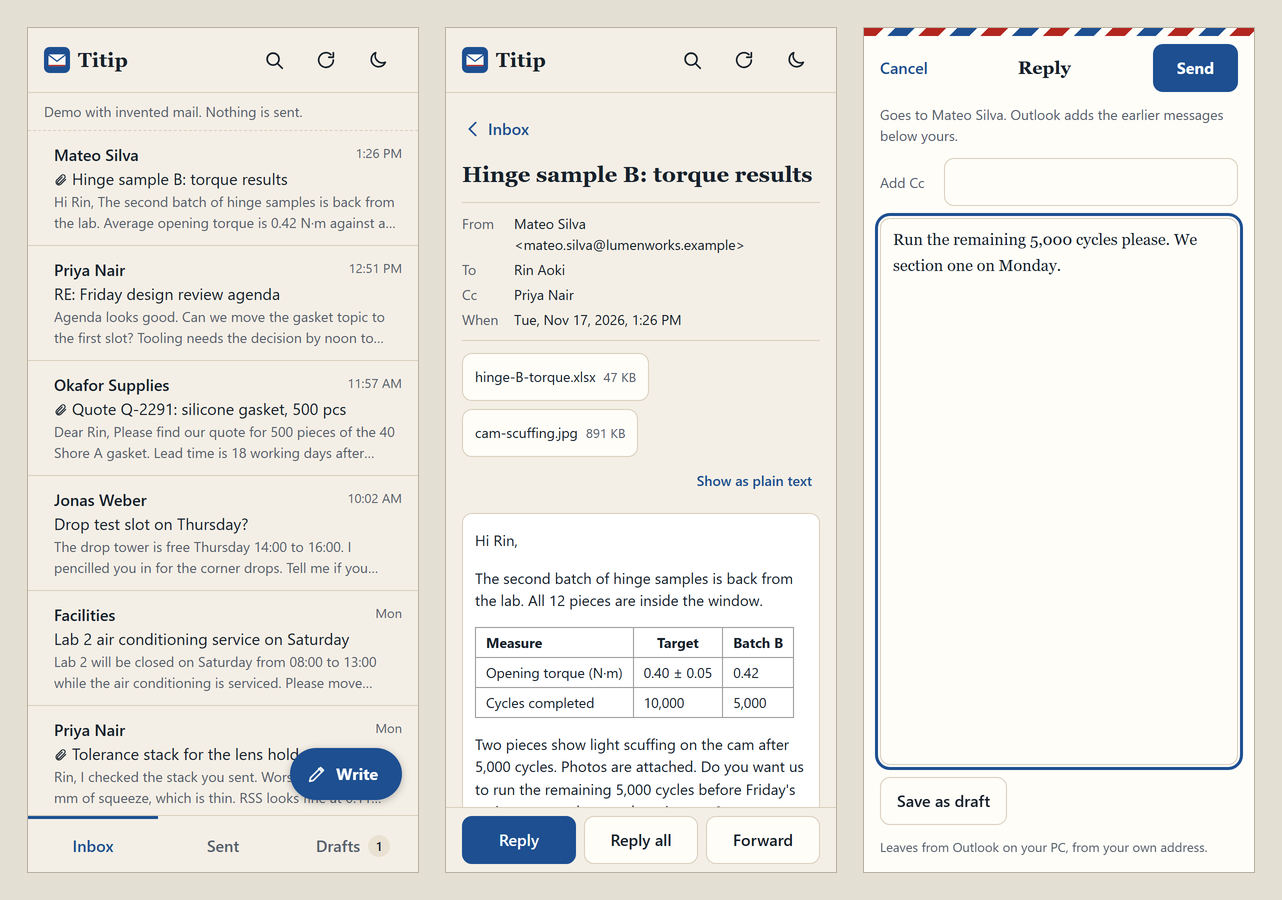
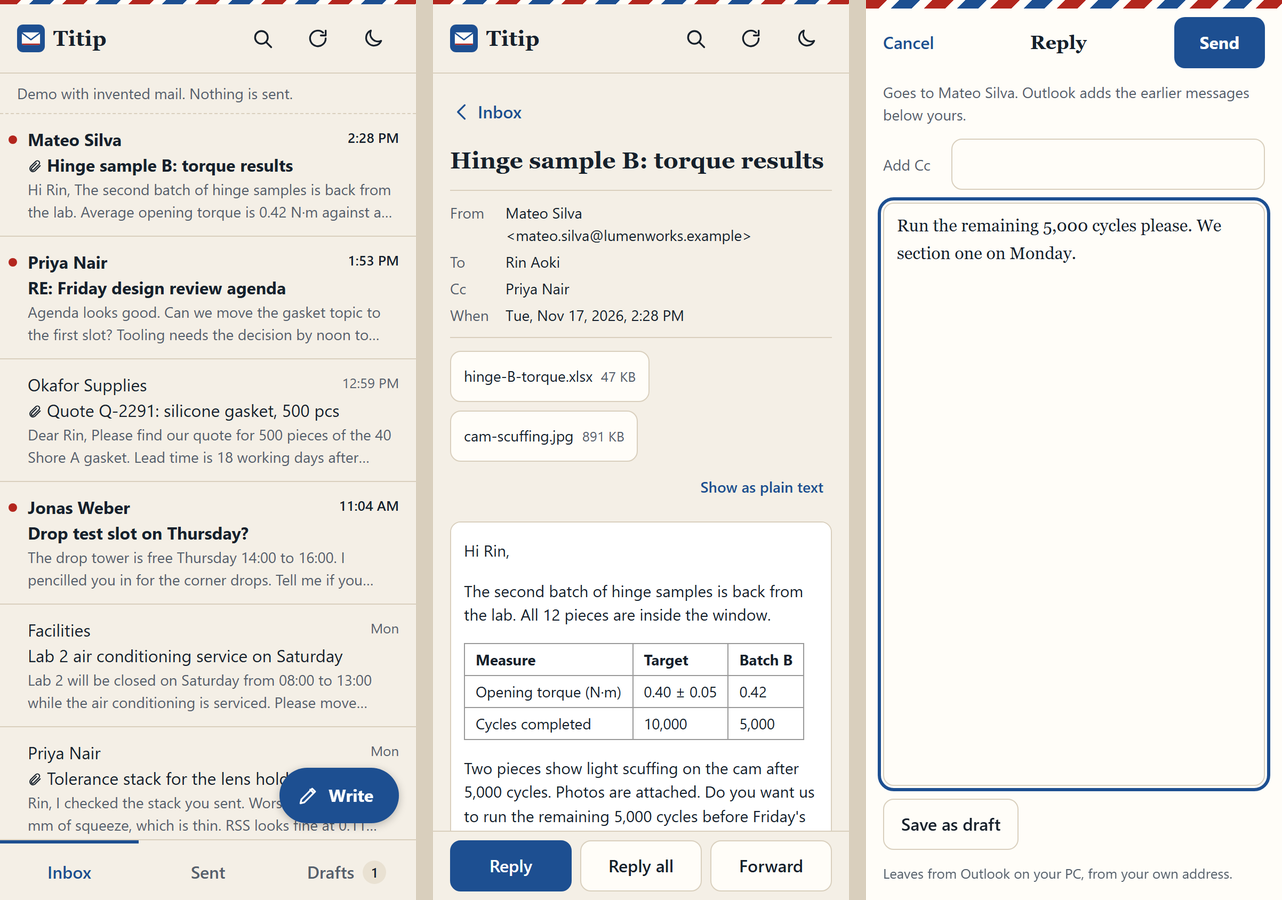
Refine log, README limits, fresh phone screenshot
Hone run: v0 7.75 -> 8.75 (council-judged, 3 judges). Rounds 2 and 3 not kept;
their candidate is on try/day-groups-write-in-bar.

Changed region(s): [[0.0, 0.0, 1.0, 1.0]]

diff --git a/scripts/e2e.py b/scripts/e2e.py
@@ -151,6 +151,8 @@ def main() -> None:
             page.fill("#bodyInput", "Thursday works.")
             page.click("#send")
             check(page.inner_text("#composeError") == "Add at least one recipient.", "sending without a recipient is stopped")
+            page.fill("#subjectInput", "Drop test")
+            page.screenshot(path=SHOTS / "phone-new.png")
             page.fill("#toInput", "jonas.weber@lumenworks.example")
             page.fill("#subjectInput", "Drop test")
             page.click("#saveDraft")

diff --git a/refine_log.md b/refine_log.md
@@ -1,0 +1,120 @@
+# Titip refine log
+
+Run of 2026-11-17. One artifact: the phone app, its desktop two-pane view and the page on the PC.
+Scores are council-judged by three model judges (A, B, C below) reading screenshots of the demo
+mailbox. They are opinions of models, not of users. Nobody has judged it on a real phone yet.
+
+## Run queue
+
+- [x] Freeze the rubric before the first edit
+- [x] Baseline v0 (commit `15ad79e`)
+- [x] Round 1: kept (commit `cb86588`)
+- [x] Round 2: not kept
+- [x] Round 3: not kept, loop stopped (2 rounds in a row without a kept gain)
+- [x] Candidate from rounds 2 and 3 saved on branch `try/day-groups-write-in-bar`
+- [ ] Open: try it on a real phone on the same network, and send one real message
+
+## Assumptions
+
+- Assumed: one design direction (a letter on your desk), no four-direction bracket. One job, one user.
+- Assumed: opening a message on the phone does not mark it read in Outlook. The phone only clears its own dot.
+- Assumed: no automatic signature. An earlier build read the signature from a hidden Outlook editor;
+  that was removed because it could keep Outlook busy.
+- Assumed: the repository is public, like Cairn, and holds invented mail only.
+- Assumed: the frozen keep rule decides, also when the side-by-side vote and the score disagree (round 3).
+
+## Rubric (frozen before any edit)
+
+Artifact: the Titip phone app, its desktop two-pane view and the page on the PC, judged from screenshots
+of the demo mailbox (invented mail). Audience: one engineer reading and answering work mail on a phone.
+
+## Hard gates (code-checked, the judges never decide these)
+
+| Gate | Check |
+| --- | --- |
+| G1 | `python -m unittest discover -s tests -t .` passes |
+| G2 | `python scripts/e2e.py` passes every check (pairing, read, reply, undo, draft, search, lockout, stop) |
+| G3 | hone app audit A1-A8 passes (no console errors, no overflow, AA contrast, tap targets, 12 px floor, alt, one h1) |
+| G4 | hone slop_check: 0 blockers |
+| G5 | no sideways overflow at 320, 390, 768, 1024, 1440 px |
+| G6 | every text/background token pair passes WCAG AA in light and dark |
+| G7 | no real mail, name, address or secret in the repo (tests/test_repo.py) |
+
+## Soft criteria (judged from screenshots)
+
+- C1 Reading mail on a phone (w=0.30): 4 = a list and a message can be read but sender, subject, preview and time compete; 7 = they are clearly ranked, the message header and body are easy to scan and attachments are visible; 10 = unread and attachment state are readable at a glance, nothing is clipped, crowded or covered at 320-390 px, tables inside a mail stay readable.
+- C2 Replying and writing (w=0.25): 4 = one can type and send but it is unclear who it goes to or what happens next; 7 = recipient, primary action and cancel are obvious, sending has an undo and saving a draft is visible; 10 = every state (sending, sent, saved, failed, text kept) is told in plain words and nothing can go out by accident.
+- C3 Visual identity and craft (w=0.20): 4 = generic template look; 7 = consistent palette, type pair and spacing with one accent used with intent; 10 = distinct enough that a designer would not call it a default AI layout, with the same quality in dark mode and in the desktop two-pane view.
+- C4 Trust and plain words (w=0.15): 4 = where mail leaves from and who can read it is not explained; 7 = the demo is labelled, the page on the PC says how pairing works and how to cut phones off, errors are plain; 10 = a non-technical person understands all of that without jargon and without hunting for it.
+- C5 States and widths (w=0.10): 4 = works at one width only; 7 = empty, notice and error states exist and the layout holds from 320 to 1440 px; 10 = each state is designed, the desktop view uses its space well and no element covers another anywhere.
+
+## Rules
+
+- Keep a round only if every gate passes, the council score rises by at least 0.3 and the candidate wins the pairwise vote.
+- Stop after 5 rounds, or 2 rounds in a row without a kept gain.
+- Never report a score as more than what the judges returned; never call the result perfect.
+
+## Baseline v0
+
+Commit `15ad79e`. Gates pass. Council **7.75** (C1 7, C2 8, C3 8, C4 9, C5 7; judges 8.10, 7.55, 7.58).
+Judged from 4 images.
+
+## Round 1: kept
+
+Changes: unread marks come from Outlook; sending, sent, saved and failed states say what happened in
+plain words; notices sit above the Write button instead of under it; the desktop view gets a reply bar.
+
+- Gates: 41 unit tests, browser test, audit A1-A8, slop check 0 blockers: all pass.
+- Council **8.75** (C1 8, C2 9, C3 9, C4 10, C5 8; judges 9.00, 7.65, 8.75). One judge reply had to be
+  salvaged from a malformed answer.
+- Side by side against v0: 3-0 for round 1.
+- Kept: +1.00, vote won.
+
+Caveat: the judged set grew from 4 to 5 images in this round, and one of the new images shows states
+that v0 already had. Part of the +1.00 is better evidence, not better design.
+
+## Round 2: not kept
+
+Changes: Write moved into the bar with the tabs (bottom on a phone, top on desktop); day headings
+(Today, Yesterday, date) in the list; table headers in a mail stay on one line.
+
+- Gates: all pass.
+- Council **8.60** (C1 8, C2 9, C3 9, C4 9, C5 8; judges 9.80, 8.20, 8.35).
+- Side by side against round 1: 1 vote for round 2, 2 ties. No win.
+- Not kept: score did not rise, vote not won.
+
+## Round 3: not kept
+
+Changes on top of round 2: drawn postmark marks on the empty, no-result and offline states; plainer
+hints; a line under the list saying the PC serves the mail; plainer certificate wording on the PC page.
+
+- Gates: all pass (41 unit tests, browser test, audit A1-A8, slop 0 blockers and 0 warnings,
+  contrast AA in light and dark, lowest pairs 4.93 and 5.50).
+- Council **8.50** (C1 8, C2 9, C3 8, C4 9, C5 9; judges 9.50, 8.50, 8.40).
+- Side by side against round 1: 3-0 for round 3 (6 of 6 picks, both orders).
+- Not kept: the rule needs +0.3 on the score and a won vote. The vote was won, the score was not.
+
+The two measures disagree. Absolute scores moved by up to 0.8 per judge between runs of near-identical
+screens, so a 0.25 drop is inside the noise, and the side-by-side vote is the steadier signal. Two
+judges also counted the "no recipient" stop as new, although round 1 has it and only the new screenshot
+showed it. The rule was frozen first, so it stands: main stays on round 1. The candidate is on branch
+`try/day-groups-write-in-bar` (commit `e6a26d9`), gates green, ready to merge if the owner prefers it.
+
+## Result
+
+v0 **7.75** -> final **8.75** (council-judged, 3 judges, range 7.65 to 9.00). Stopped by the rule:
+two rounds in a row without a kept gain.
+
+## What the judges still want (not done)
+
+- A mail table at 320 px gets narrow; give it a sideways scroll or keep values on one line.
+- "Add Cc" on the reply screen is a text link and easy to miss.
+- The identity is consistent but safe: carry the airmail stripe into more than the top edge.
+- Name the recipient in the undo notice ("Sending to ... in 5 s").
+
+## Not verified
+
+- A real phone: pairing by QR, the certificate warning, and whether Windows Firewall lets the phone in.
+- A real send. No test ever calls Outlook's Send; the demo mailbox stands in.
+- The live Outlook mailbox end to end in a browser. Outlook on the build PC stopped answering during
+  the run, so the final check ran against the demo mailbox and the unit tests only.

diff --git a/README.md b/README.md
@@ -12,11 +12,12 @@ and Outlook on that PC sends it exactly as if you had typed it at your desk.
 ## What it does
 
 - Shows Inbox, Sent and Drafts from the classic Outlook desktop app, newest first, including mail that
-  rules or archivers moved into `.pst` data files.
+  rules or archivers moved into `.pst` data files. Unread mail carries a red dot.
 - Opens a message with its formatting in a frame that cannot run scripts or load remote pictures,
   or as plain text. Attachments download to the phone.
 - Reply, Reply all, Forward and new mail. Outlook adds the earlier thread. (No automatic signature: type it, or keep it in a draft.)
 - Every send waits 5 seconds behind an **Undo** button. **Save as draft** puts it in Outlook's Drafts.
+  If a send fails, the message comes back with your text and the reason.
 - Search by subject or person. Light and dark. Works as a home-screen app.
 
 It stores no password and no mail. It drives the Outlook that is already signed in on your PC.
@@ -82,6 +83,7 @@ Titip opens a door from your network to your mailbox. Read this first.
   edit on the phone goes as plain text.
 - Search looks at subject and sender (recipient in Sent), not the message body.
 - Calendar invitations can be read, not accepted.
+- Opening a message on the phone clears its red dot on that phone only. Outlook still shows it as unread.
 
 ## Develop
 
